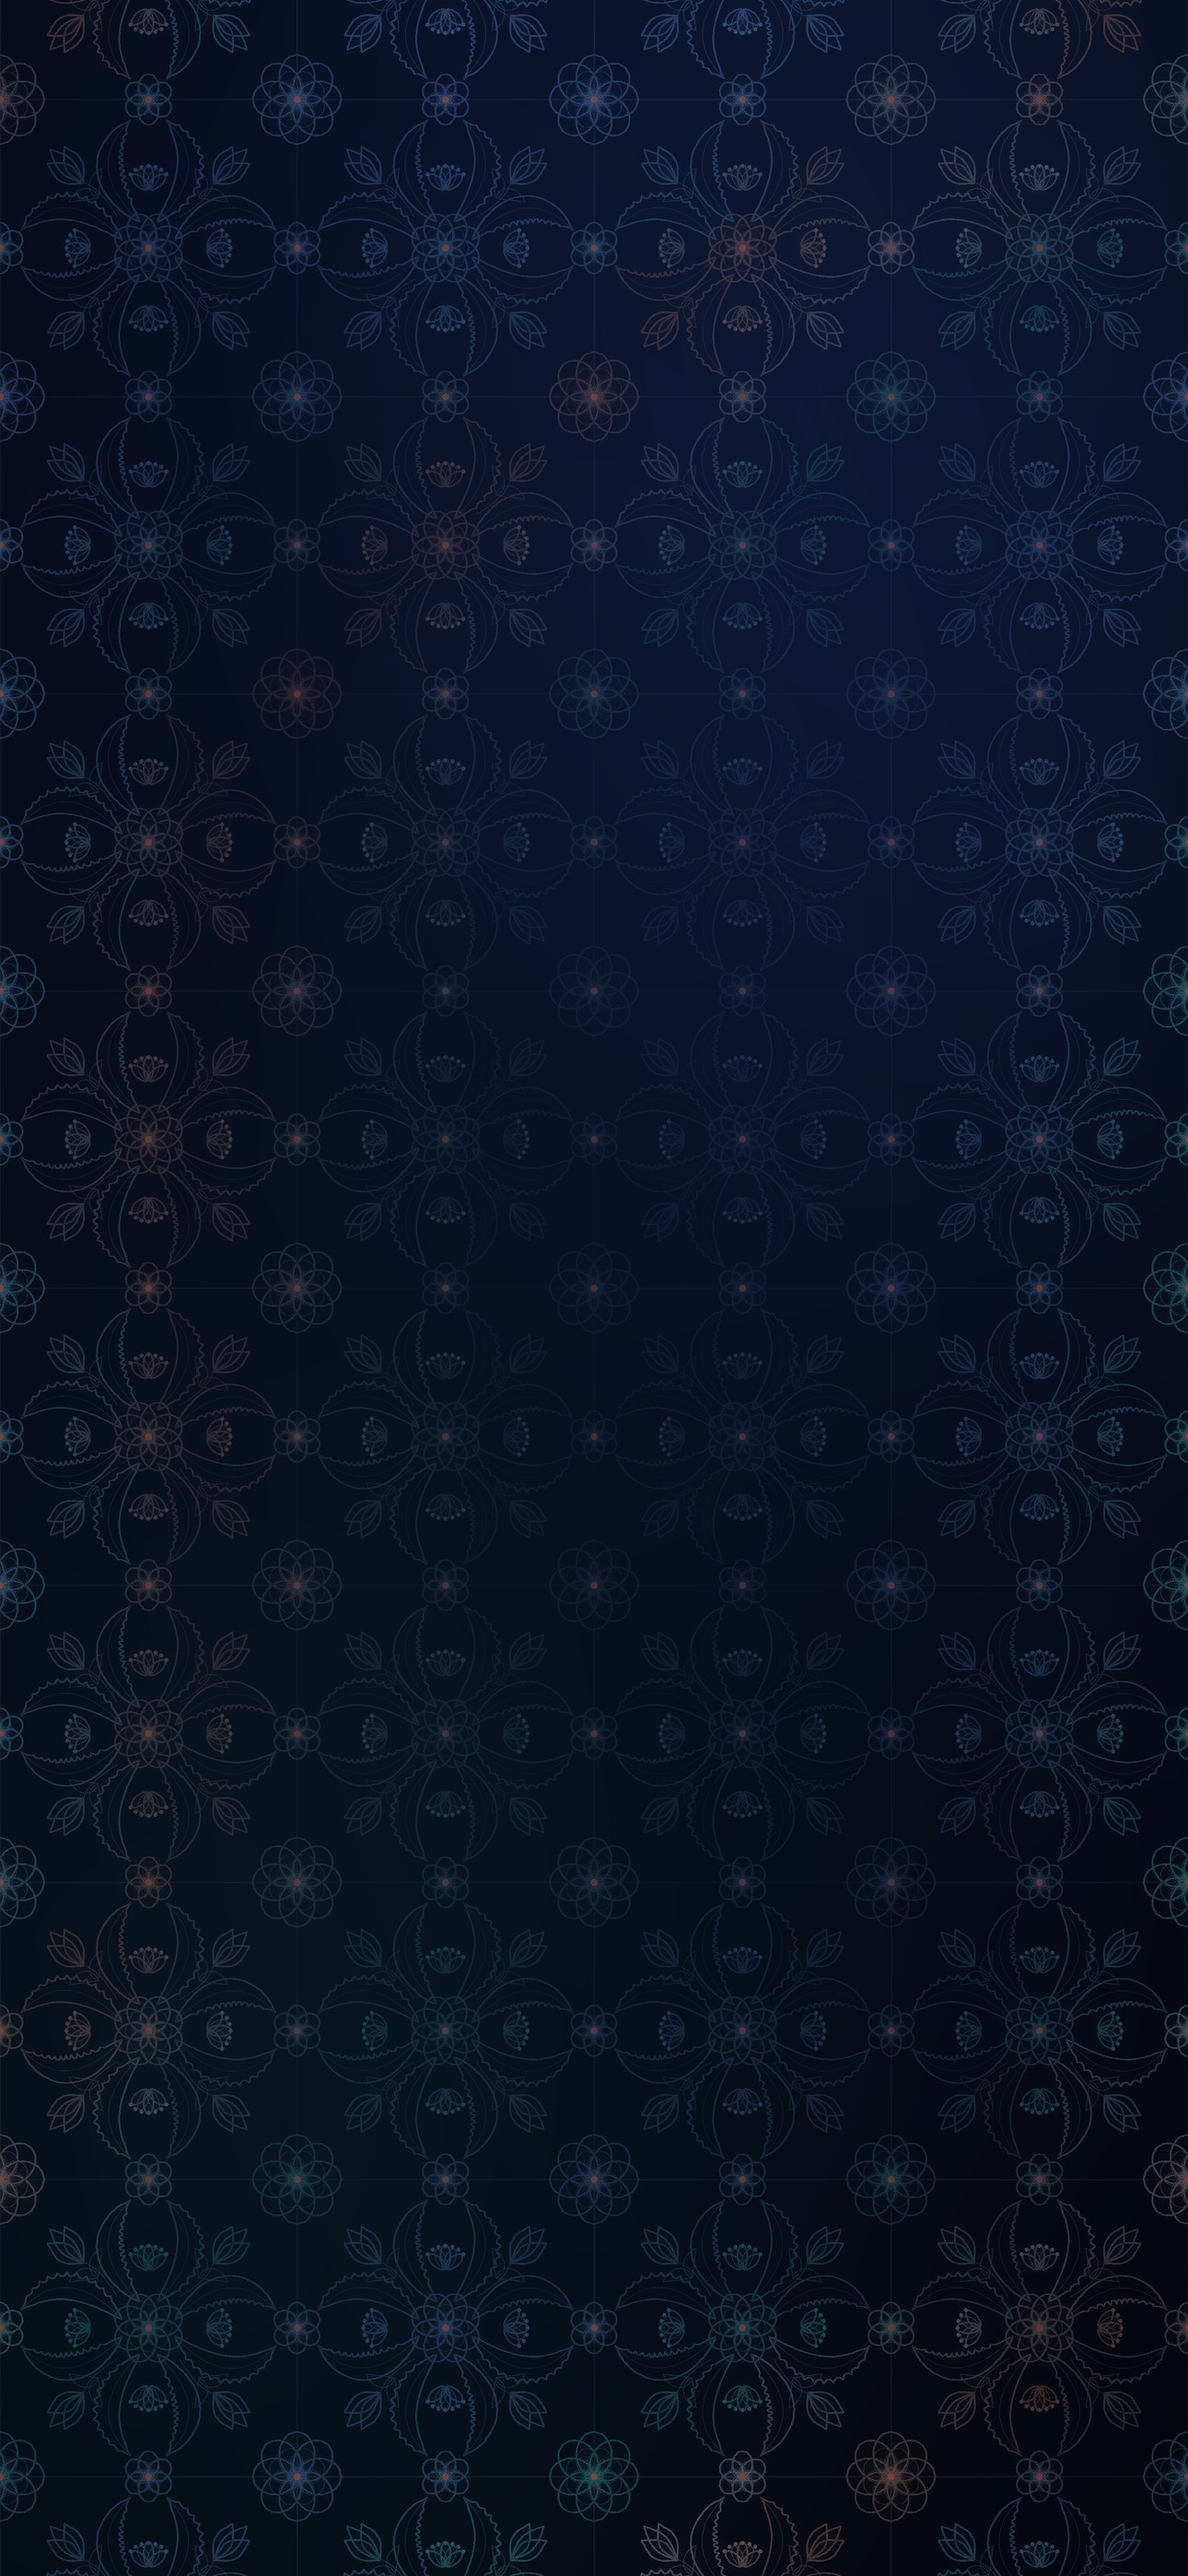
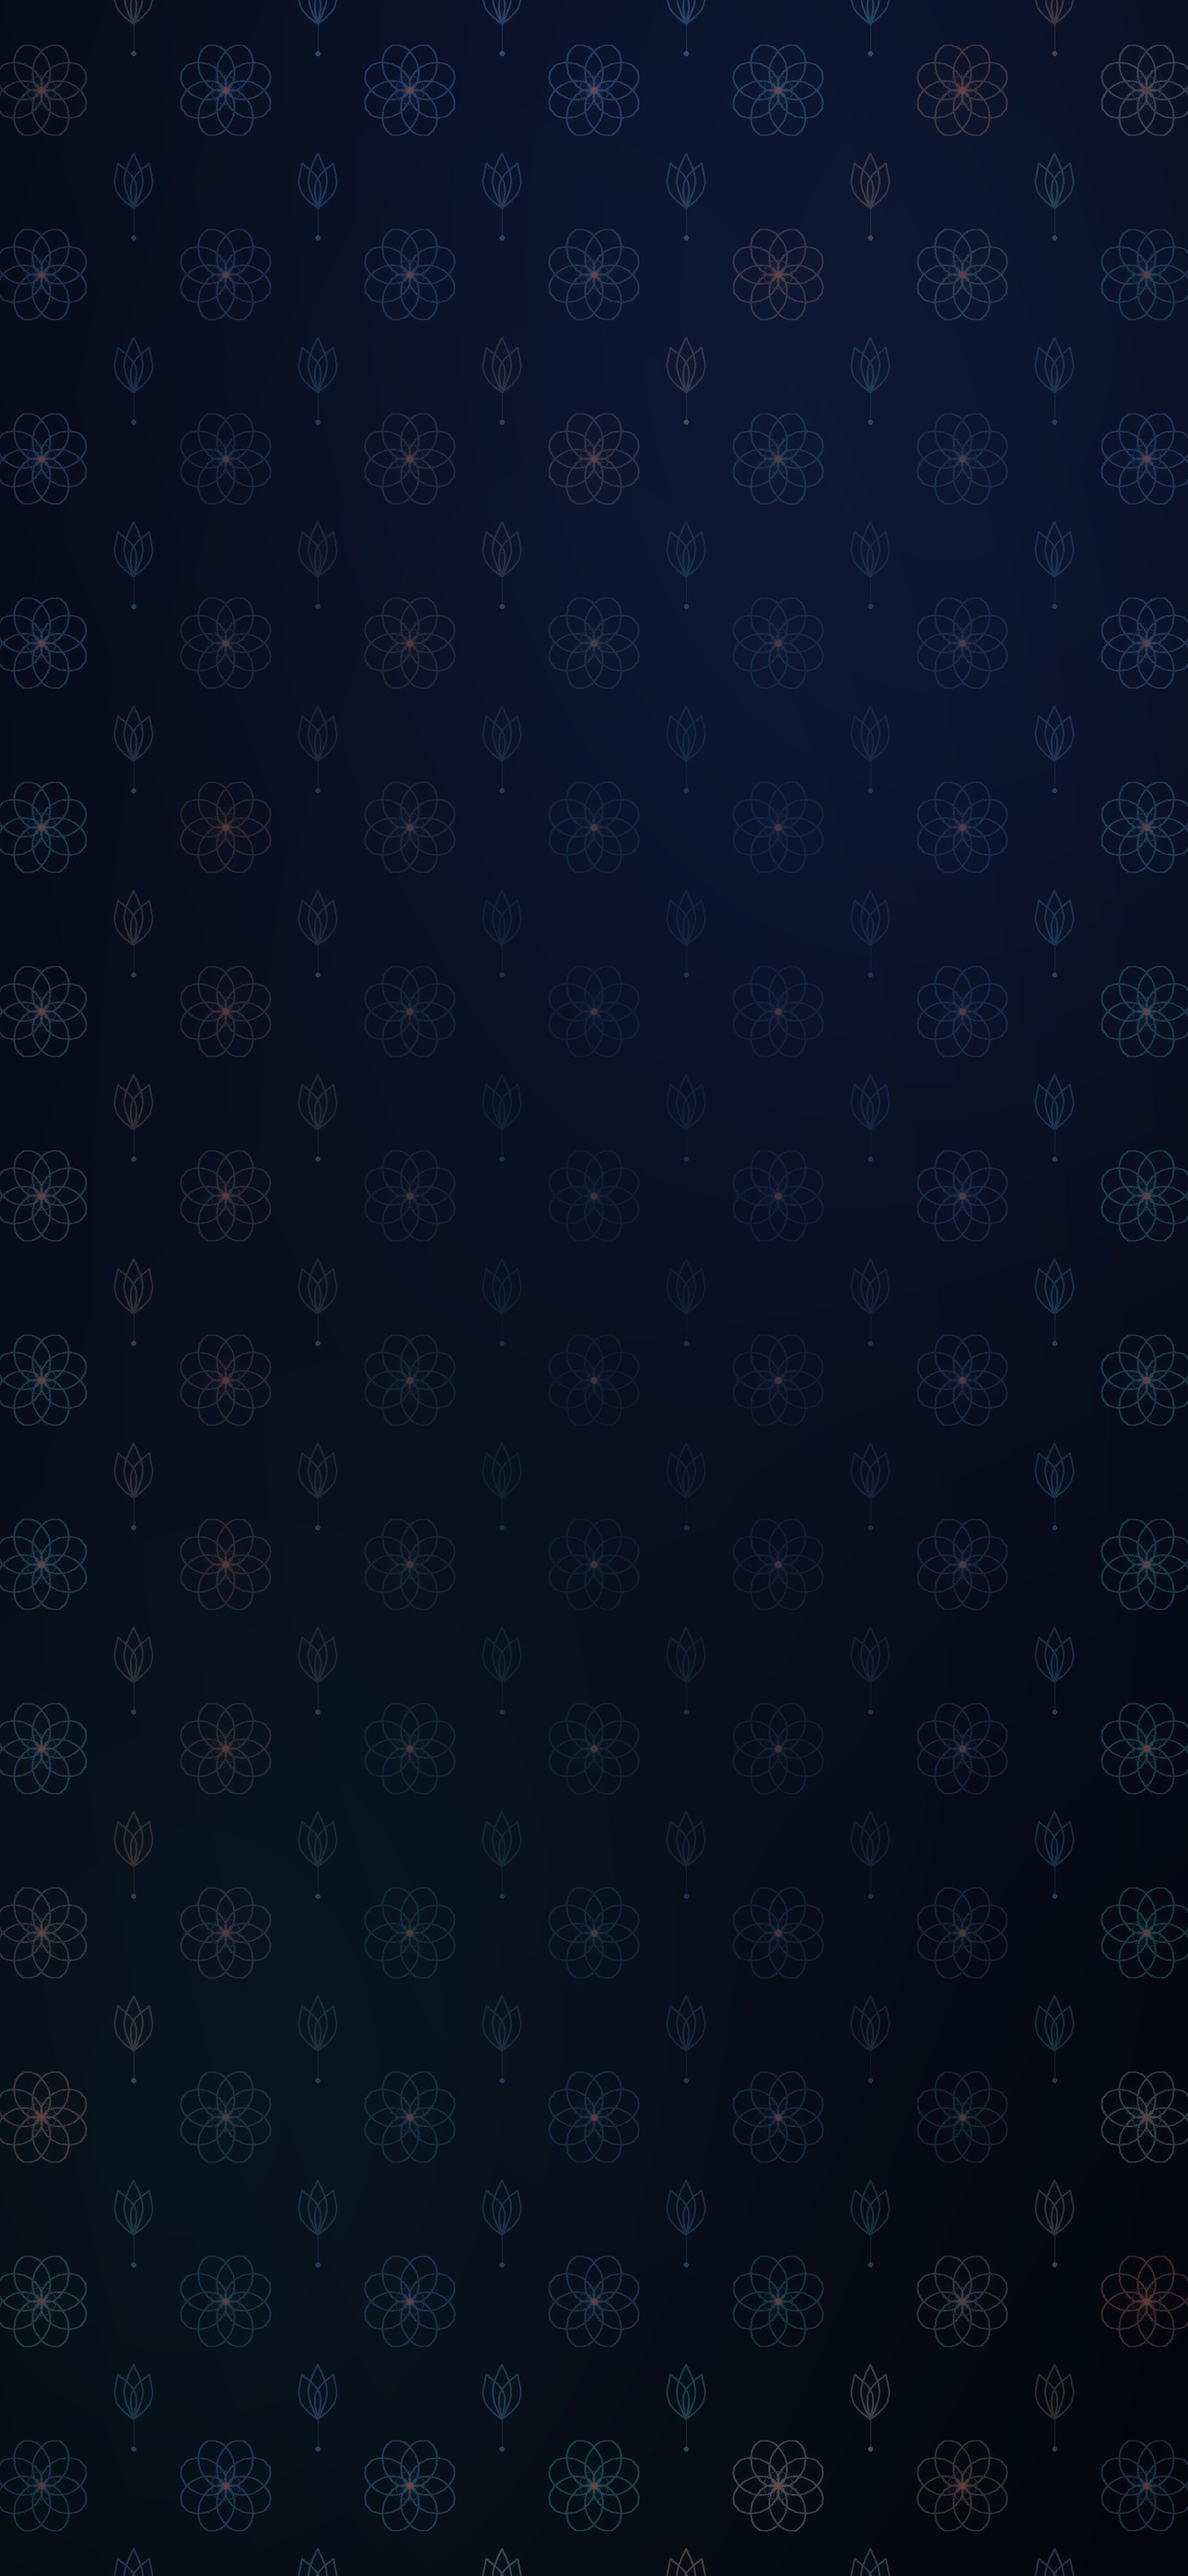
Çini desenini diğer temalarla aynı ızgara düzenine sadeleştir
Düğümlerde penç, aralarda dik lale; yaprak, karanfil ve plaka
çizgileri kaldırıldı.

Claude-Session: https://claude.ai/code/session_0188rHyHdxZ451aQcetemD1N

diff --git a/cini/cini-felsefe.md b/cini/cini-felsefe.md
@@ -1,9 +1,9 @@
 # Çini
 
-*Cami duvarındaki panonun ışıkla yeniden çizilmiş hâli.*
+*Cami çinisinin iki temel motifine indirgenmiş bir düzen.*
 
-Çini, İznik atölyelerinin en parlak döneminde cami duvarlarını kaplayan panolardan doğar. Lale, karanfil, hatayi ve tırtıllı saz yaprakları dört yöne doğru açılır. Burada motifler boya ile değil ışıkla çizilir: gece mavisi bir zeminin üzerinde, bir nakkaşın ilk kalem taslağı kadar ince çizgiler. Renk, kobalttan firuzeye, oradan sır beyazına ve mercana doğru yavaşça kayar.
+Çini, İznik panolarının en çok tekrar eden iki motifini alır ve geri kalan her şeyi bırakır: sekiz yuvarlak yapraklı penç ve dik duran üç yapraklı lale. Pençler düzenli bir ızgaranın düğümlerine, laleler aralarındaki boşluklara yerleşir. Her pencin göbeğinde tek bir mercan tanesi, her lalenin sapının ucunda küçük bir nokta durur.
 
-Her plaka tek başına bir bütündür ama asıl desen plakalar yan yana geldiğinde tamamlanır. Kenarlardaki yarım penç motifleri komşu plakayla birleşir, köşelerdeki hatayiler dört plakanın buluştuğu noktada tam bir çiçeğe dönüşür. Plakalar arasındaki derzler belli belirsiz bir ızgara olarak kalır. Her çiçeğin göbeğinde tek bir mercan tanesi parlar.
+Motifler boya ile değil, ince ve ışıklı çizgilerle çizilir. Renk gece mavisi zeminde kobalttan firuzeye, sır beyazına ve mercana doğru yavaşça kayar. Desen ekranın kenarlarında belirgindir, ortaya doğru loş bir cami içi gibi silinir ve sohbete yer açar.
 
-Desen ekranın kenarlarında belirgindir, ortaya doğru loş bir cami içi gibi silinir ve sohbete yer açar. Kobalt eylemi, mercan seslenmeyi, firuze bağlantıyı işaret eder. Sonuç, ustalığının zirvesindeki bir nakkaşın pano için günlerce üzerinde çalıştığı, her kıvrımı tek tek düşünülmüş bir taslak gibi hissettirmelidir.
+Kobalt eylemi, mercan seslenmeyi, firuze bağlantıyı işaret eder. Sonuç, bir nakkaşın yıllarca çizdiği iki motifi en saf hâline indirdiği bir taslak gibi hissettirmelidir: az, ama her çizgisi yerli yerinde.

diff --git a/README.md b/README.md
@@ -37,7 +37,7 @@ Tasarım felsefesi: [sedef/sedef-felsefe.md](sedef/sedef-felsefe.md)
 
 ## Çini
 
-Cami duvarlarındaki İznik çinilerinden: kobalt zemin, lale, karanfil, hatayi ve saz yaprakları.
+İznik çinilerinin penç ve lale motifleri, gece mavisi zeminde ince ışıklı çizgilerle.
 
 ![Çini önizleme](cini/cini-onizleme.png)
 
